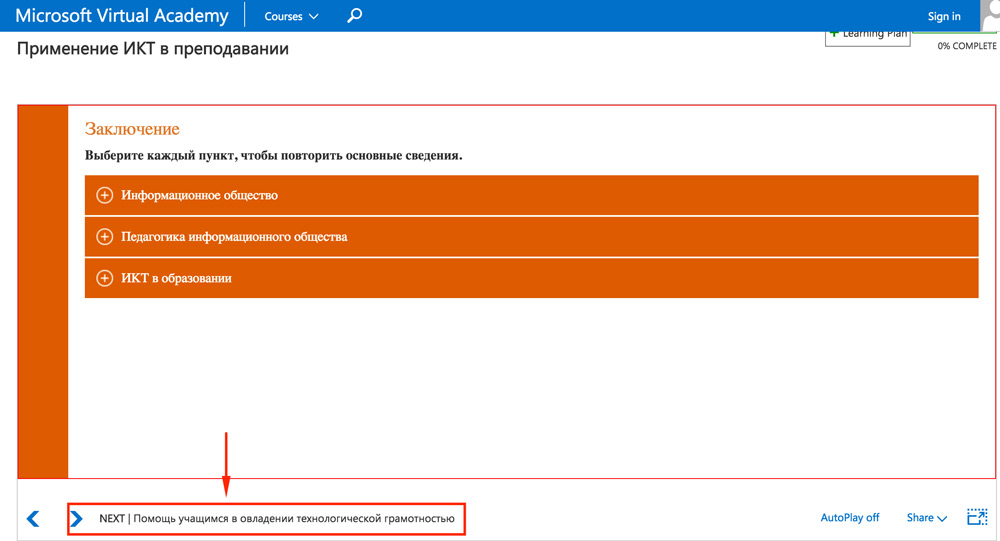
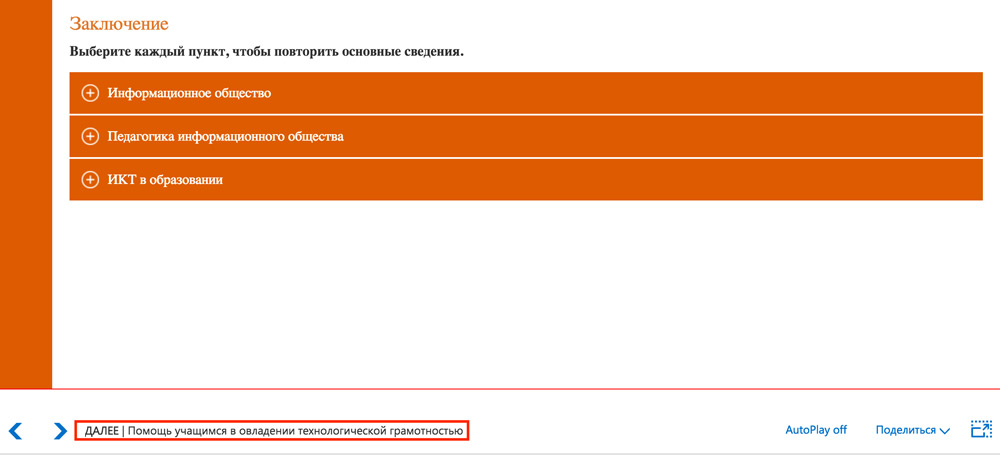
new screens

diff --git a/src/html/pages/tutorial-mie.html b/src/html/pages/tutorial-mie.html
@@ -55,13 +55,13 @@ Microsoft Education
 				<div class="tutorial__text text">
 
 					<p>
-						1. Итак, перед Вами главная страница портала Microsoft Education. Для того, чтобы изучить её на русском языке, нажмите значок «Перевести».
+						1. Итак, перед Вами главная страница портала <a href="http://education.microsoft.com" target="_blank" class="inverselink">Microsoft Education</a>. Для того, чтобы изучить её на русском языке, нажмите значок «Перевести».
 					</p>
 
 					<p><img src="assets/images/tutorial-mie/1.jpg" alt="" /></p>
 
 					<p>
-						2. Для прохождения бесплатных курсов по ИТ необходимо пройти простую процедуру регистрации. Если Вы уже ранее использовали ресурс Microsoft Education, то на стартовой странице необходимо выбрать кнопку «Войти» и ввести свои данные. Если Вы впервые используете данный ресурс, то выберите кнопку «Присоединяйся сейчас».
+						2. Для прохождения бесплатных курсов по ИТ необходимо пройти простую процедуру регистрации. Если Вы уже ранее использовали ресурс <a href="http://education.microsoft.com" target="_blank" class="inverselink">Microsoft Education</a>, то на стартовой странице необходимо выбрать кнопку «Войти» и ввести свои данные. Если Вы впервые используете данный ресурс, то выберите кнопку «Присоединяйся сейчас».
 					</p>
 
 					<p><img src="assets/images/tutorial-mie/2.jpg" alt="" /></p>
@@ -80,7 +80,7 @@ Microsoft Education
 					
 
 					<p>
-						5. Поздравляем Вас! Регистрация завершена. Вы можете перейти к <a href="http://education.microsoft.com" target="_blank" class="inverselink">прохождению обучения</a> и <a href="http://education.microsoft.com" target="_blank" class="inverselink">тестовым заданиям</a>. Желаем Вам удачи.
+						5. Поздравляем Вас! Регистрация завершена. Вы можете перейти к <a href="#step2" data-nav="#/tutorial/step2" class="inverselink">прохождению обучения</a> и <a href="#step3" data-nav="#/tutorial/step3" target="_blank" class="inverselink">тестовым заданиям</a>. Желаем Вам удачи.
 					</p>
 
 
@@ -94,13 +94,13 @@ Microsoft Education
 				<div class="tutorial__text text">
 
 					<p>
-						1. Итак, перед Вами главная страница портала Microsoft Education. Для того, чтобы изучить её на русском языке, нажмите значок «Перевести».
+						1. Итак, перед Вами главная страница портала <a href="http://education.microsoft.com" target="_blank" class="inverselink">Microsoft Education</a>. Для того, чтобы изучить её на русском языке, нажмите значок «Перевести».
 					</p>
 
 					<p><img src="assets/images/tutorial-mie/5.jpg" alt="" /></p>
 
 					<p>
-						2. Для прохождения бесплатных курсов по ИТ необходимо пройти простую процедуру регистрации. Если Вы уже ранее использовали ресурс Microsoft Education, то на стартовой странице необходимо выбрать кнопку «Войти» и ввести свои данные. Если Вы впервые используете данный ресурс, то выберите кнопку «Присоединяйся сейчас».
+						2. Для прохождения бесплатных курсов по ИТ необходимо пройти простую процедуру регистрации. Если Вы уже ранее использовали ресурс <a href="http://education.microsoft.com" target="_blank" class="inverselink">Microsoft Education</a>, то на стартовой странице необходимо выбрать кнопку «Войти» и ввести свои данные. Если Вы впервые используете данный ресурс, то выберите кнопку «Присоединяйся сейчас».
 					</p>
 
 					<p><img src="assets/images/tutorial-mie/6.jpg" alt="" /></p>
@@ -137,7 +137,7 @@ Microsoft Education
 					<p><img src="assets/images/tutorial-mie/11.jpg" alt="" /></p>
 
 					<p>
-						8. Поздравляем Вас! Регистрация завершена. Вы можете перейти к <a href="http://education.microsoft.com" target="_blank" class="inverselink">прохождению обучения</a> и <a href="http://education.microsoft.com" target="_blank" class="inverselink">тестовым заданиям</a>. Желаем Вам удачи.
+						8. Поздравляем Вас! Регистрация завершена. Вы можете перейти к <a href="#step2" data-nav="#/tutorial/step2" class="inverselink">прохождению обучения</a> и <a href="#step3" data-nav="#/tutorial/step3" target="_blank" class="inverselink">тестовым заданиям</a>. Желаем Вам удачи.
 					</p>
 					
 					<p>
@@ -193,7 +193,7 @@ Microsoft Education
 				<div class="tutorial__text text">
 
 					<p>
-						2. Для того, чтобы начать просмотр курса, необходимо нажать на кнопку «Next» в нижнем левом углу экрана. Её необходимо нажимать каждый раз для перехода на следующую страницу.
+						2. Для того, чтобы начать просмотр курса, необходимо нажать на кнопку «ДАЛЕЕ» в нижнем левом углу экрана. Её необходимо нажимать каждый раз для перехода на следующую страницу.
 					</p>
 					
 					<p><img src="assets/images/tutorial-mie/2-1.jpg" alt="" /></p>
